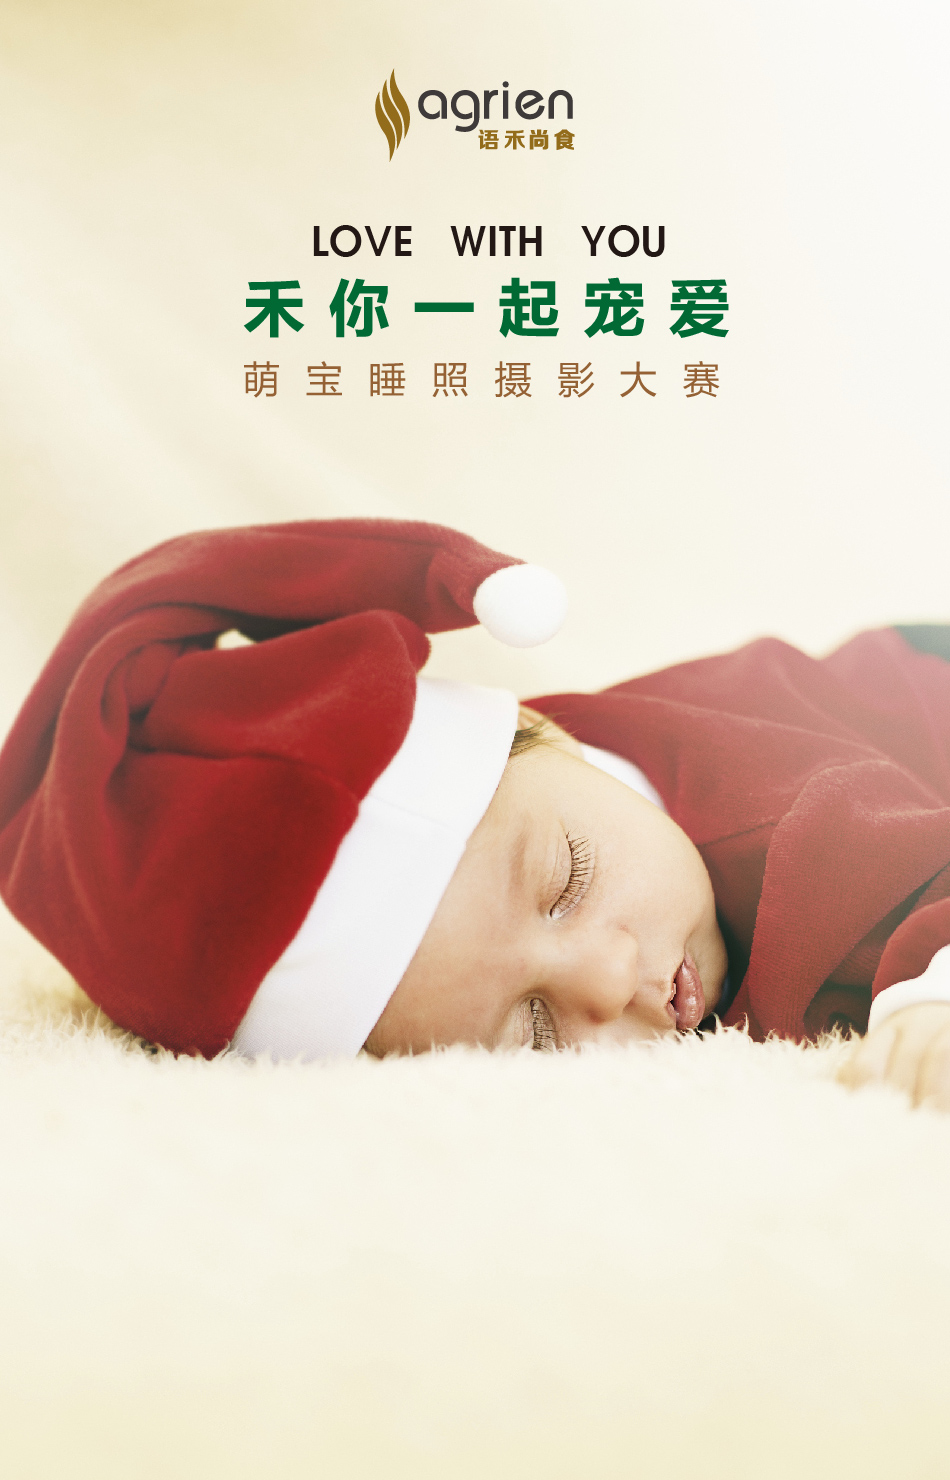
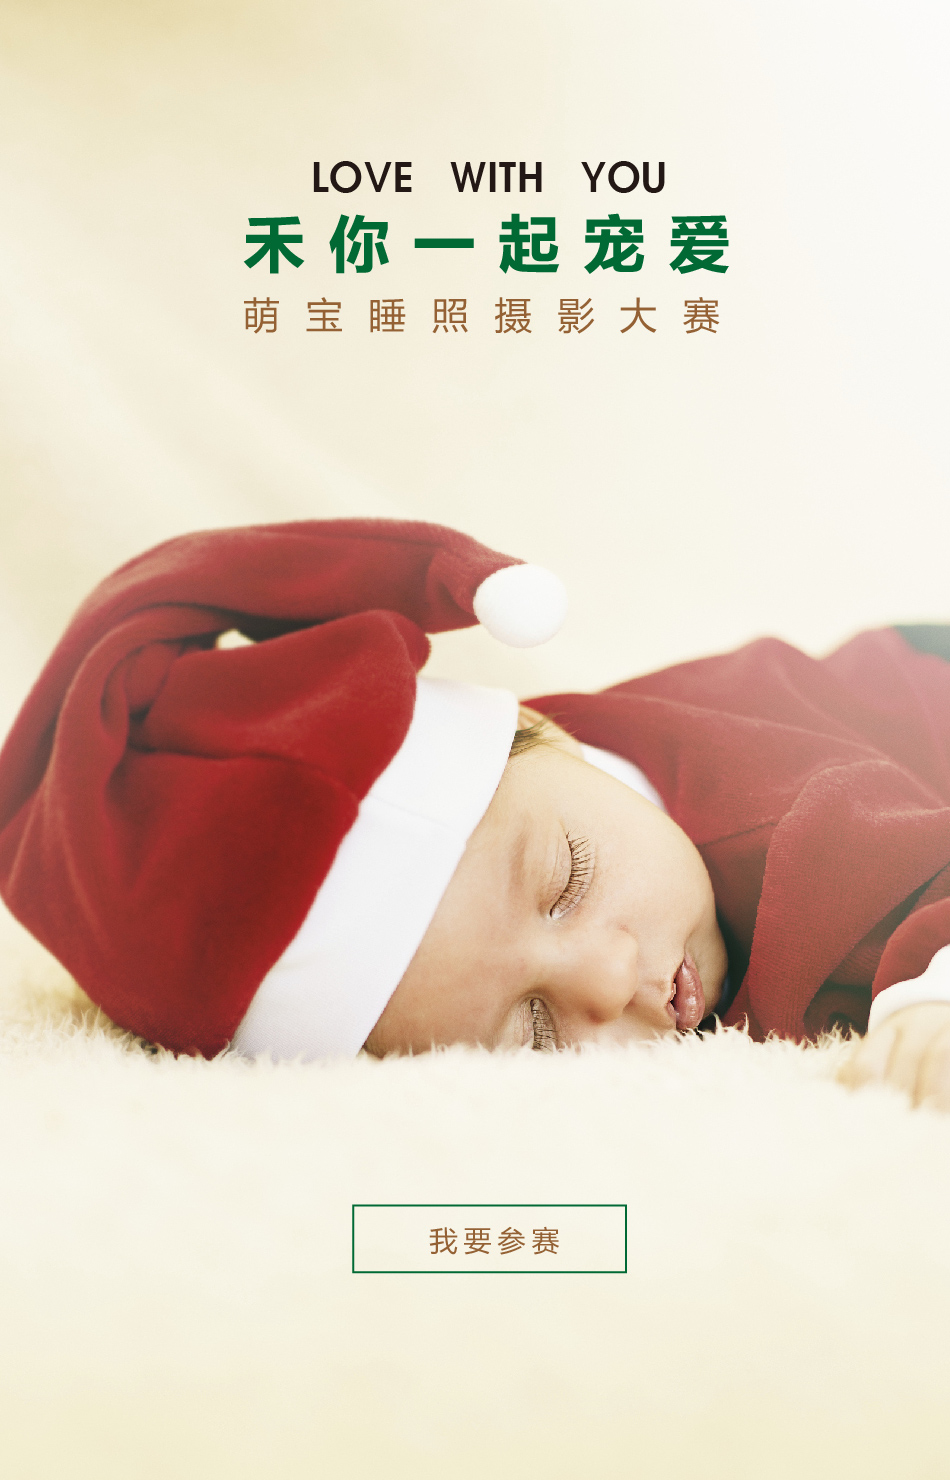
add link to poster

Changed region(s): [[0.2442, 0.0311, 0.7632, 0.2797], [0.4579, 0.8081, 0.6105, 0.8703], [0.3663, 0.8081, 0.3968, 0.8703]]

diff --git a/app/assets/javascripts/application.js b/app/assets/javascripts/application.js
@@ -46,6 +46,45 @@ $(function(){
   $(".footer_off").css("width",footer_width+"px")
   $(".footer_off").css("height",footer_height+"px")
   $(".footer_text").css("padding-top",footer_text_top+"px")
+  //poster1 link
+  var poster1_width=950;
+  var poster1_height=1480;
+  if(window_width>950){
+    var poster1_fit_width=poster1_width;
+  }else{
+    var poster1_fit_width=window_width;
+  }
+  var poster1_fit_height=Math.floor((poster1_fit_width*1480)/950);
+  var wrate1 = (poster1_fit_width/poster1_width);
+  var hrate1 = (poster1_fit_height/poster1_height);
+  var poster1_link = [350, 1210, 625, 1280];
+  var coords1 = "";
+  coords1 += Math.floor(wrate1*poster1_link[0]).toString()+",";
+  coords1 += Math.floor(hrate1*poster1_link[1]).toString()+",";
+  coords1 += Math.floor(wrate1*poster1_link[2]).toString()+",";
+  coords1 += Math.floor(hrate1*poster1_link[3]).toString();
+  $("#area1").attr("coords",coords1)
+
+  //poster2 link
+  var poster2_width=951;
+  var poster2_height=1481;
+  if(window_width>951){
+    var poster2_fit_width=poster2_width;
+  }else{
+    var poster2_fit_width=window_width;
+  }
+  var poster2_fit_height=Math.floor((poster2_fit_width*1481)/951);
+  var wrate2 = (poster2_fit_width/poster2_width);
+  var hrate2 = (poster2_fit_height/poster2_height);
+  var poster2_link = [340, 375, 615, 440];
+  var coords2 = "";
+  coords2 += Math.floor(wrate2*poster2_link[0]).toString()+",";
+  coords2 += Math.floor(hrate2*poster2_link[1]).toString()+",";
+  coords2 += Math.floor(wrate2*poster2_link[2]).toString()+",";
+  coords2 += Math.floor(hrate2*poster2_link[3]).toString();
+
+  $("#area2").attr("coords",coords2)
+
 
   if($("#cover").length>0){
     var height = Math.floor((window_width*501)/751);

diff --git a/config/environments/development.rb b/config/environments/development.rb
@@ -44,7 +44,7 @@ Rails.application.configure do
 
   # Suppress logger output for asset requests.
   config.assets.quiet = true
-
+  config.assets.compile = true
   # Raises error for missing translations
   # config.action_view.raise_on_missing_translations = true
 
